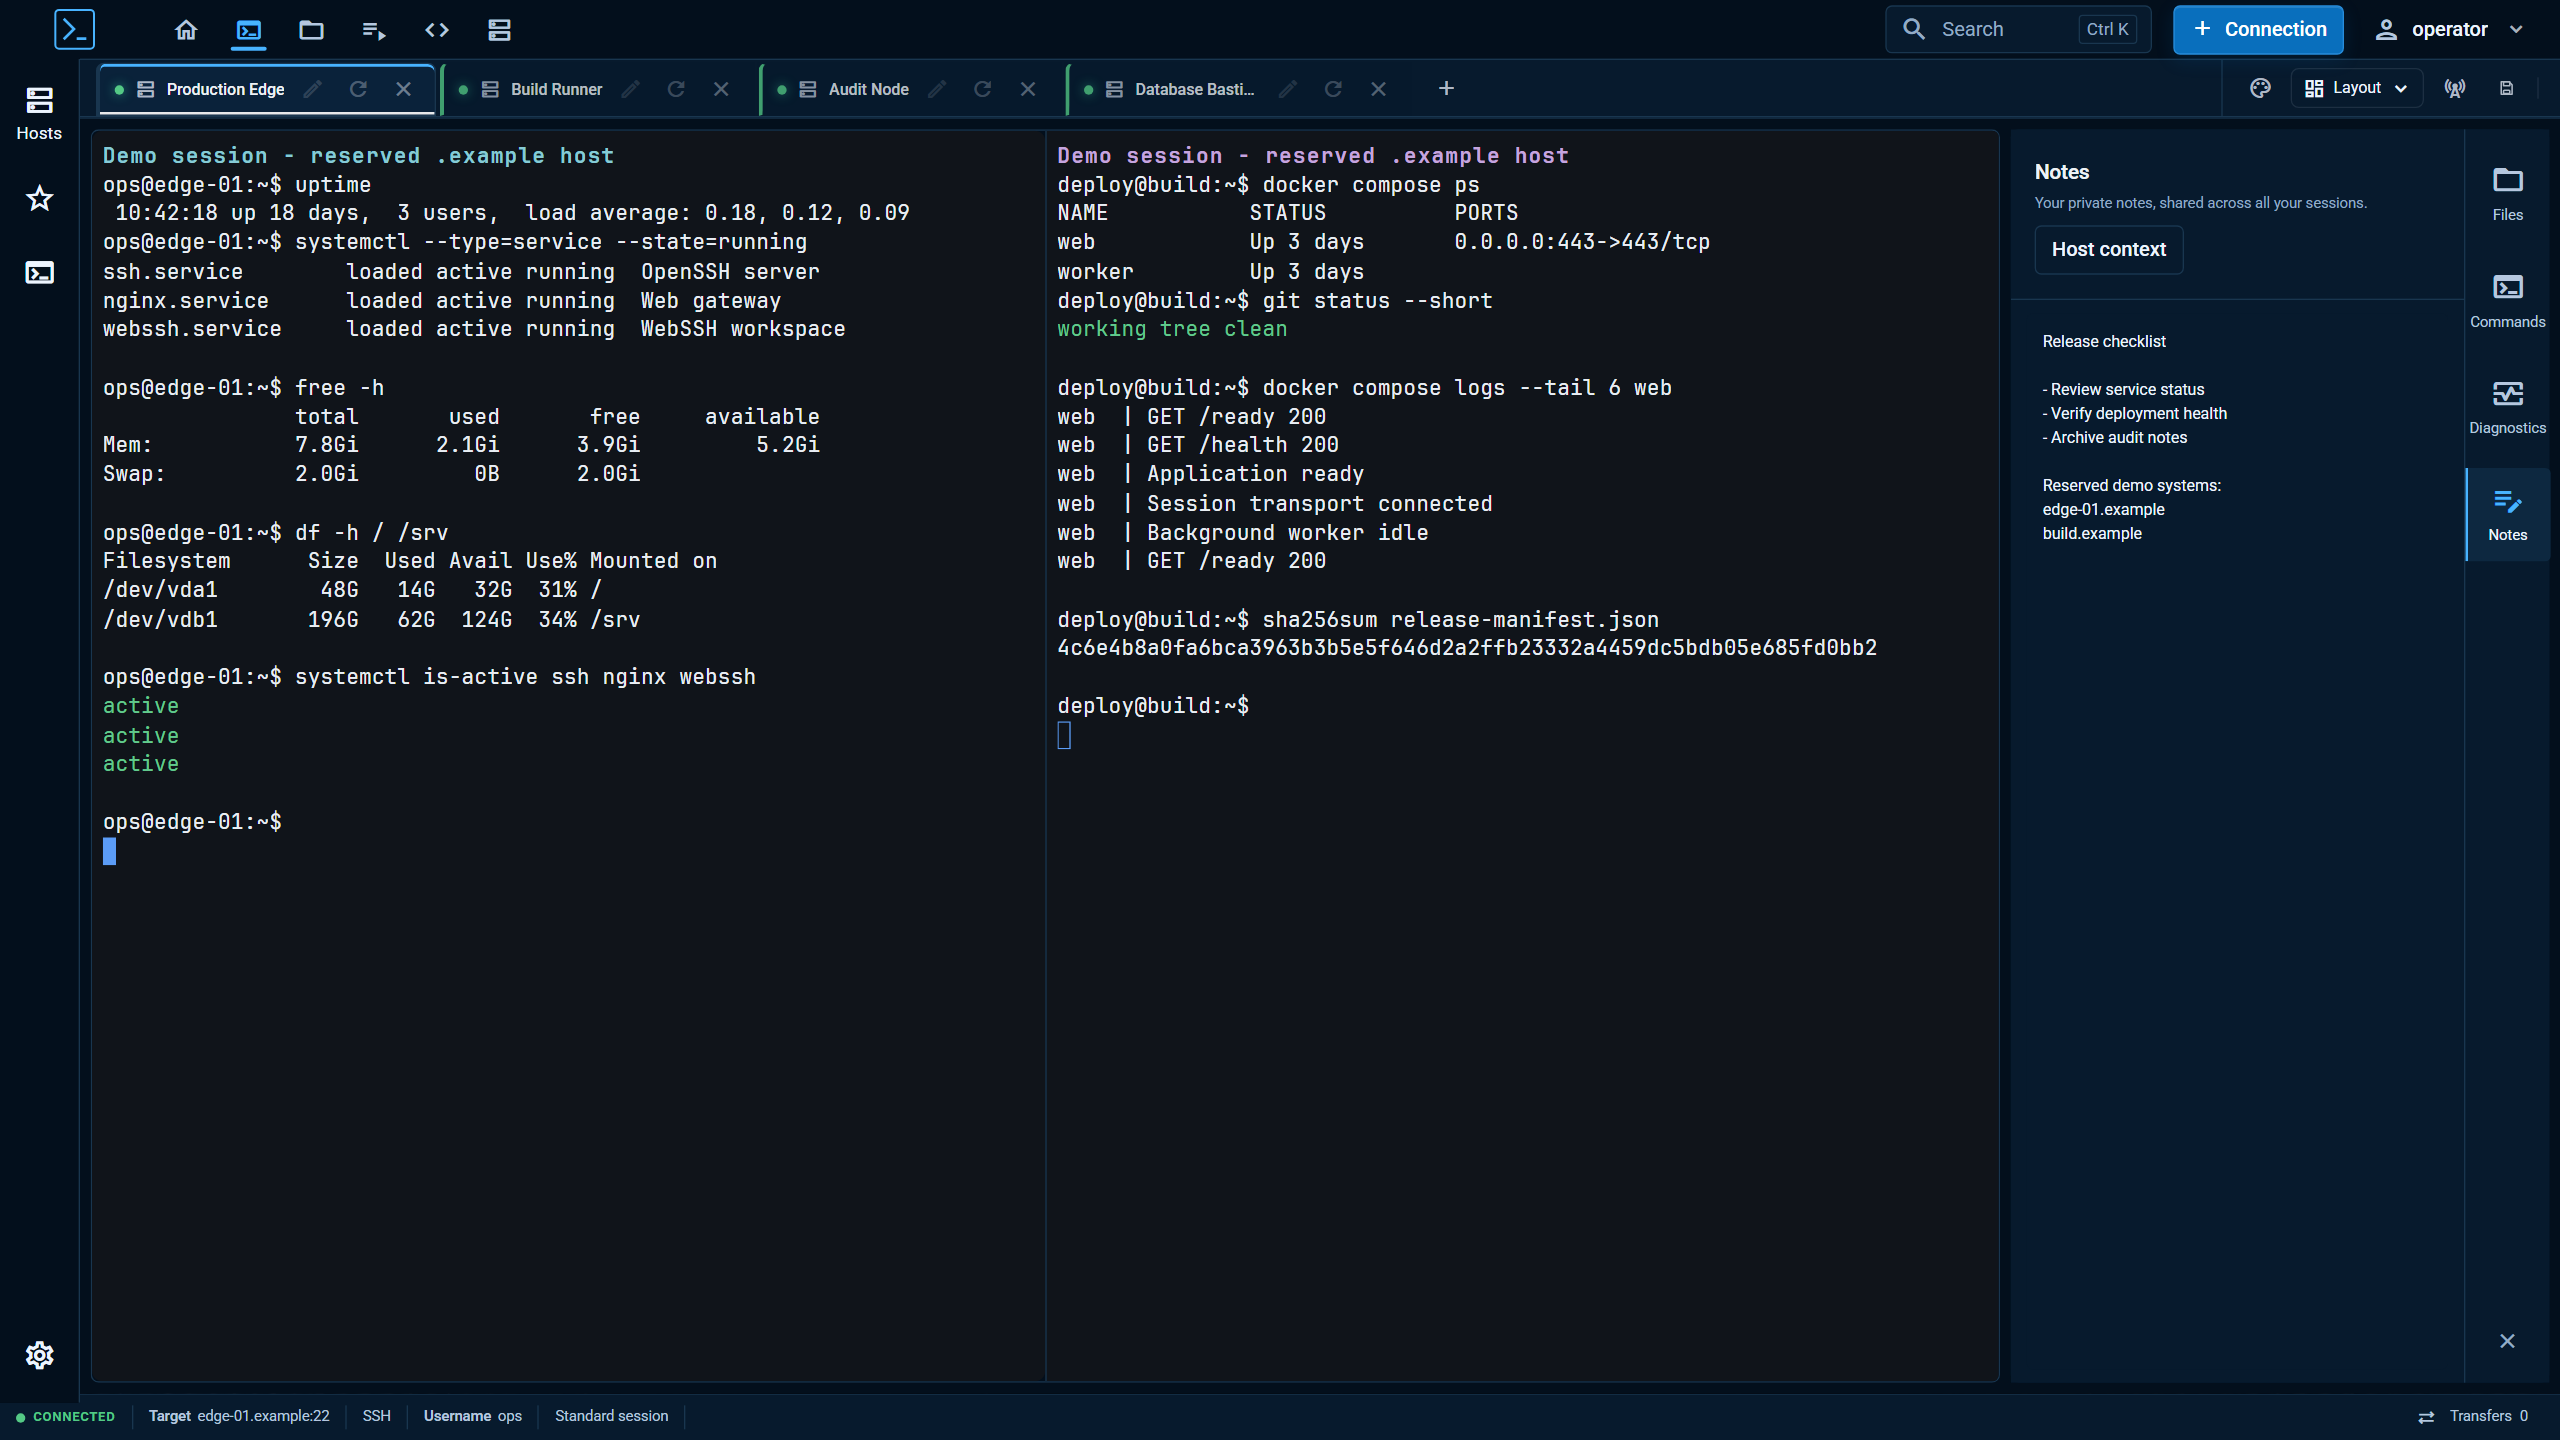
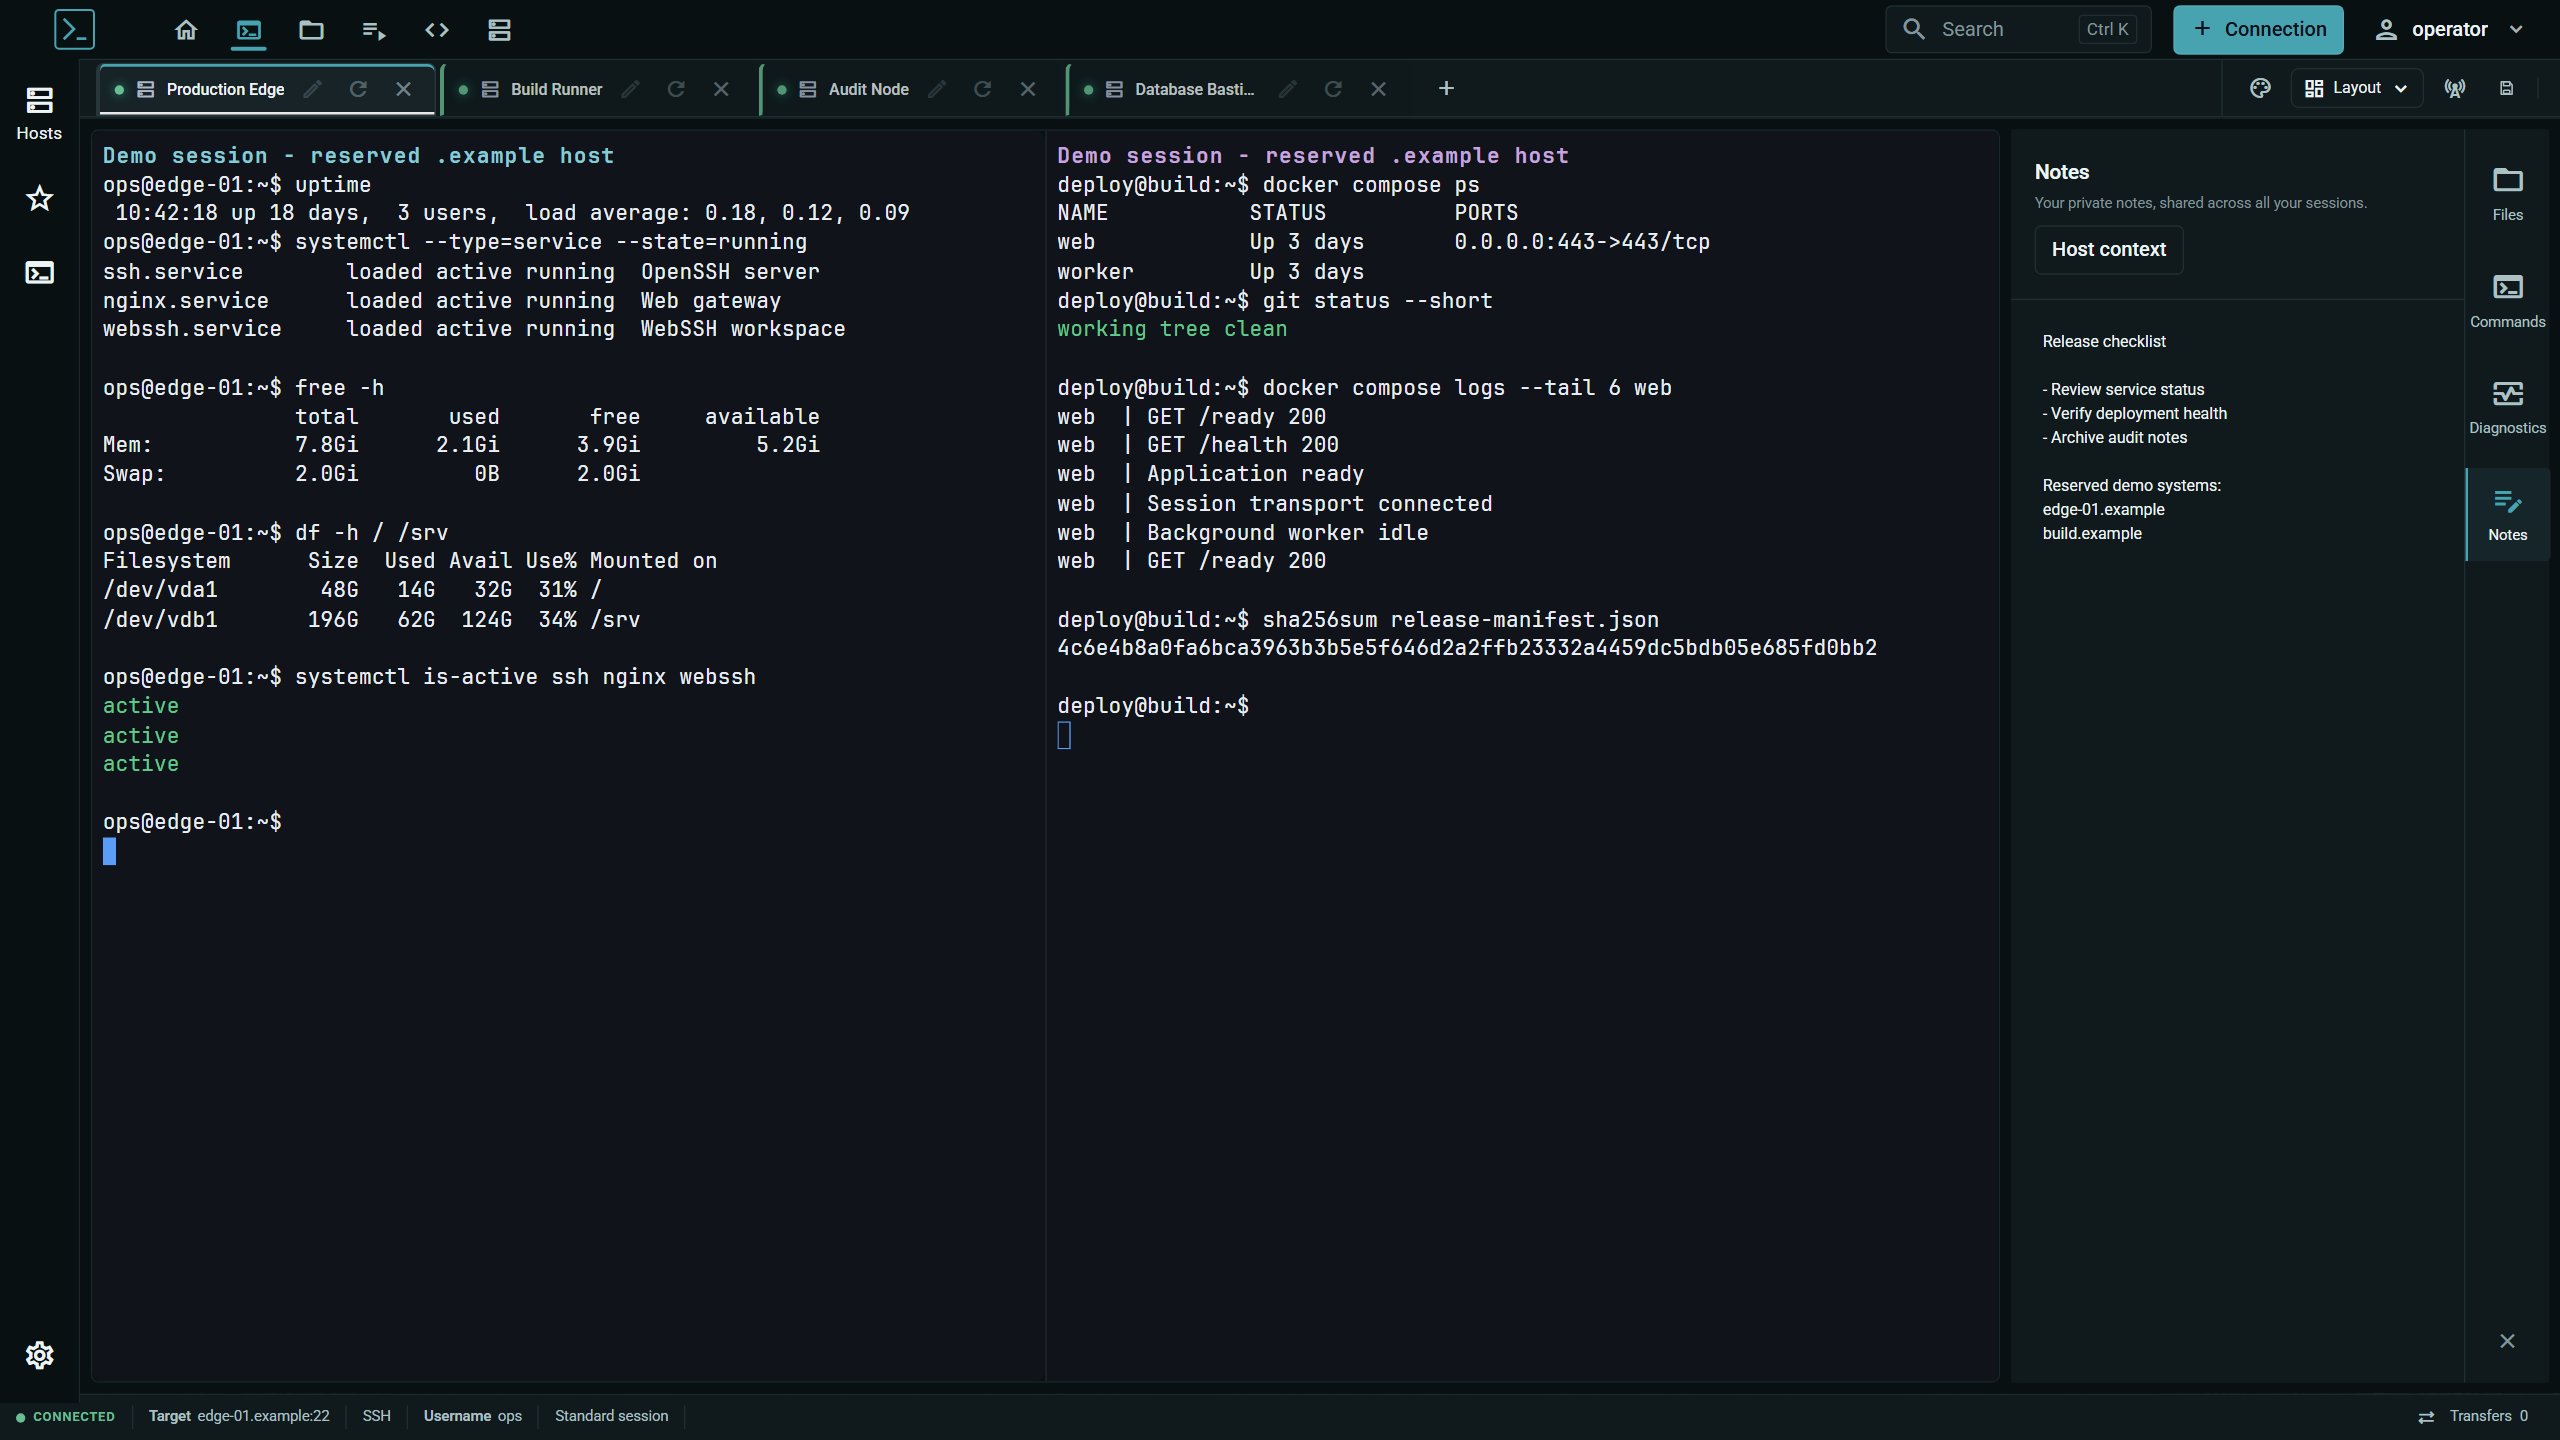
Show every README capture in one theme
The README mixed captures in the Arctic Ice theme with older ones in the
default blue theme, and its logo used the Werkbank sand colors. The
capture pipeline now switches every published still, frame and mobile
capture to Arctic Ice before taking it, outside normal test runs; all
screenshots and tours are regenerated from the current release. The
README logo is a fixed copy in the same theme's colors; the app logo
still follows the chosen theme. The subtitle uses a plain hyphen.

diff --git a/tests/e2e/product-captures.spec.js b/tests/e2e/product-captures.spec.js
@@ -7,7 +7,7 @@ const {
     login,
     openKeyManagement,
 } = require('./helpers');
-const { captureOutputPath: repositoryCaptureOutputPath } = require('./capture-output');
+const { applyCaptureTheme, captureOutputPath: repositoryCaptureOutputPath } = require('./capture-output');
 
 const DESKTOP_VIEWPORT = { width: 1920, height: 1080 };
 const DESKTOP_DEVICE_SCALE_FACTOR = 4 / 3;
@@ -57,6 +57,7 @@ function readPngSize(filePath) {
 
 async function captureDesktopStill(page, filename, testInfo) {
     if (!captureAssetsEnabled()) return;
+    await applyCaptureTheme(page);
     const filePath = captureOutputPath(testInfo, filename);
     await page.screenshot({
         path: filePath,
@@ -213,6 +214,7 @@ async function seedCommandSetAnimationCatalog(page) {
 
 async function captureCssFrame(page, frameDirectory, filename) {
     if (!captureAssetsEnabled()) return;
+    await applyCaptureTheme(page);
     const filePath = path.join(frameDirectory, filename);
     await page.screenshot({
         path: filePath,
@@ -1145,6 +1147,7 @@ test.describe('mobile product capture', () => {
         expect(layout.bodyWidth).toBeLessThanOrEqual(layout.viewportWidth);
 
         if (captureAssetsEnabled()) {
+            await applyCaptureTheme(page);
             const filePath = captureOutputPath(testInfo, 'mobile-workspace.png');
             await page.screenshot({
                 path: filePath,

diff --git a/tests/e2e/capture-output.js b/tests/e2e/capture-output.js
@@ -21,6 +21,21 @@ const PUBLISHED_CAPTURE_ASSETS = new Set([
     'workspace-overview.png',
 ]);
 
+// Every published capture shows the same theme, so the README reads as one product.
+const CAPTURE_THEME = 'arctic-ice';
+
+/** Switch the page to the capture theme and let its scene and fonts settle. */
+async function applyCaptureTheme(page) {
+    const changed = await page.evaluate(theme => {
+        const changed = document.body.dataset.theme !== theme;
+        window.ThemePreference?.store?.(theme);
+        document.body.dataset.theme = theme;
+        return changed;
+    }, CAPTURE_THEME);
+    await page.evaluate(() => document.fonts?.ready);
+    if (changed) await page.waitForTimeout(700);
+}
+
 function captureOutputPath(filename) {
     if (typeof filename !== 'string'
         || path.basename(filename) !== filename
@@ -35,6 +50,8 @@ function captureOutputPath(filename) {
 }
 
 module.exports = {
+    CAPTURE_THEME,
     PUBLISHED_CAPTURE_ASSETS,
+    applyCaptureTheme,
     captureOutputPath,
 };

diff --git a/tests/e2e/session-workspace.spec.js b/tests/e2e/session-workspace.spec.js
@@ -2,7 +2,7 @@ const fs = require('node:fs');
 const path = require('node:path');
 const { test, expect } = require('playwright/test');
 const { openWorkspace, login, assertNoExternalRequests } = require('./helpers');
-const { captureOutputPath } = require('./capture-output');
+const { applyCaptureTheme, captureOutputPath } = require('./capture-output');
 
 for (const width of [390, 1920]) {
     test(`expanding session files preserves the host, folder and existing tabs at ${width}px`, async ({page}) => {
@@ -1115,6 +1115,7 @@ test('single-session workspace keeps terminal primary with on-demand Files, Diag
     expect(resizedContextWidth).toBeGreaterThan(initialContextWidth);
 
     if (captureAssetsEnabled()) {
+        await applyCaptureTheme(page);
         const screenshotPath = capturePath('session-workspace.png');
         await page.screenshot({
             path: screenshotPath,

diff --git a/README.md b/README.md
@@ -1,9 +1,9 @@
 <p align="center">
-  <img src="static/images/webssh-logo.svg" alt="WebSSH" width="128" height="128">
+  <img src="assets/webssh-logo.svg" alt="WebSSH" width="128" height="128">
 </p>
 
 <p align="center">
-  <strong>WebSSH 3 — your self-hosted SSH, files and automation workspace.</strong>
+  <strong>WebSSH 3 - your self-hosted SSH, files and automation workspace.</strong>
 </p>
 
 <p align="center">
